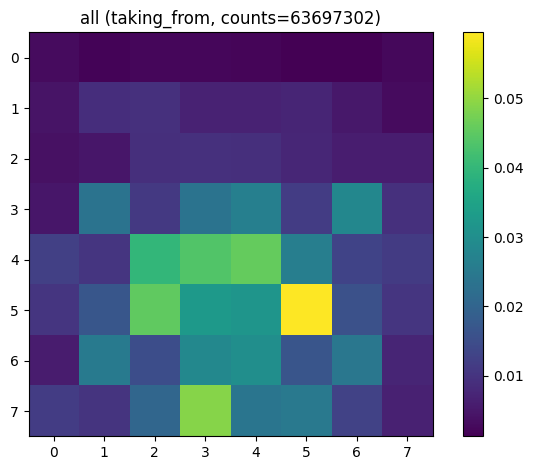
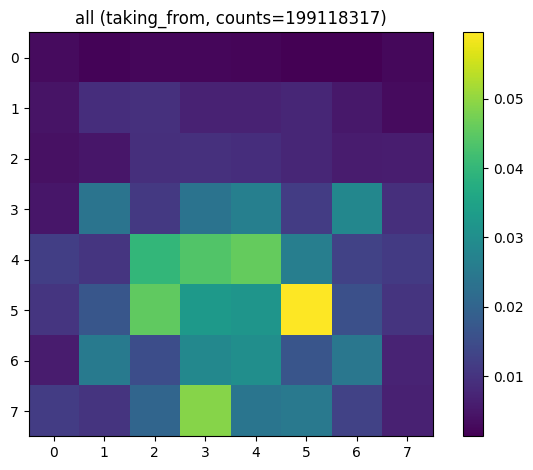
Fixed boardflip bug

Changed region(s): [[0.1201, 0.0, 0.7205, 0.0596], [0.9306, 0.7745, 0.9906, 0.834], [0.9306, 0.3277, 0.9906, 0.3872]]

diff --git a/chess_analysis/proc_pq.py b/chess_analysis/proc_pq.py
@@ -123,22 +123,15 @@ class PlotConfig:
     desc: str
     """Description of this config."""
 
-    reverse: bool
+    reverse: bool = False
     """Whether to mirror the board when displaying."""
 
 
-# PLOT_CONFIGS: Final = [
-#     PlotConfig("piece", "square", "taken_at", reverse=False),
-#     PlotConfig("piece", "from_square", "taken_from", reverse=True),
-#     PlotConfig("capturing_piece", "square", "taking_at", reverse=False),
-#     PlotConfig("capturing_piece", "from_square", "taking_from", reverse=False),
-# ]
-# TODO temp fix to get around bug in source data.
 PLOT_CONFIGS: Final = [
-    PlotConfig("piece", "square", "taken_at", reverse=True),
-    PlotConfig("piece", "from_square", "taken_from", reverse=False),
-    PlotConfig("capturing_piece", "square", "taking_at", reverse=False),
-    PlotConfig("capturing_piece", "from_square", "taking_from", reverse=False),
+    PlotConfig("captured_piece", "captured_at_square", "taken_at"),
+    PlotConfig("captured_piece", "captured_from_square", "taken_from"),
+    PlotConfig("capturing_piece", "captured_at_square_mirrored", "taking_at"),
+    PlotConfig("capturing_piece", "captured_from_square_mirrored", "taking_from"),
 ]
 """List of plot configurations to run."""
 
@@ -153,10 +146,12 @@ PIECES: Final = [
 """List of piece names."""
 
 COLUMNS: Final = [
-    "piece",
+    "captured_piece",
     "capturing_piece",
-    "square",
-    "from_square",
+    "captured_at_square",
+    "captured_from_square",
+    "captured_at_square_mirrored",
+    "captured_from_square_mirrored",
 ]
 """List of columns to read from the parquet files."""
 
@@ -255,7 +250,7 @@ def main(norm: bool = True):
     os.makedirs("plots", exist_ok=True)
 
     # Use pyarrow to detect the parquet dataset.
-    path = "data\output_v4.parquet"
+    path = "data\output_v5.parquet"
     dataset = pq.ParquetDataset(path)
     print(f"Loaded {len(dataset.files)} files")
 

diff --git a/README.md b/README.md
@@ -68,6 +68,29 @@ E.g., a bishop captured on C3 will record `C3`.
 #### Queen
 <img src="./example_plots/taken_at_queen.png" width="300">
 
+### Pieces captured from
+
+Location on the board where the capturing piece moved from.
+E.g., a bishop captured on C3 from a piece on D4 will record `D4`.
+
+#### All pieces
+<img src="./example_plots/taken_from_all.png" width="300">
+
+#### Pawns
+<img src="./example_plots/taken_from_pawn.png" width="300">
+
+#### Knight
+<img src="./example_plots/taken_from_knight.png" width="300">
+
+#### Bishop
+<img src="./example_plots/taken_from_bishop.png" width="300">
+
+#### Rook
+<img src="./example_plots/taken_from_rook.png" width="300">
+
+#### Queen
+<img src="./example_plots/taken_from_queen.png" width="300">
+
 
 ### Where pieces make captures
 
@@ -122,6 +145,3 @@ E.g., a bishop on C3 taking on D4 will record `C3`.
 #### King
 <img src="./example_plots/taking_from_king.png" width="300">
 
-## Known issues
-- There's an error in choosing when to flip the board. This has been 
-  worked around temporarily by mirroring the final results.
